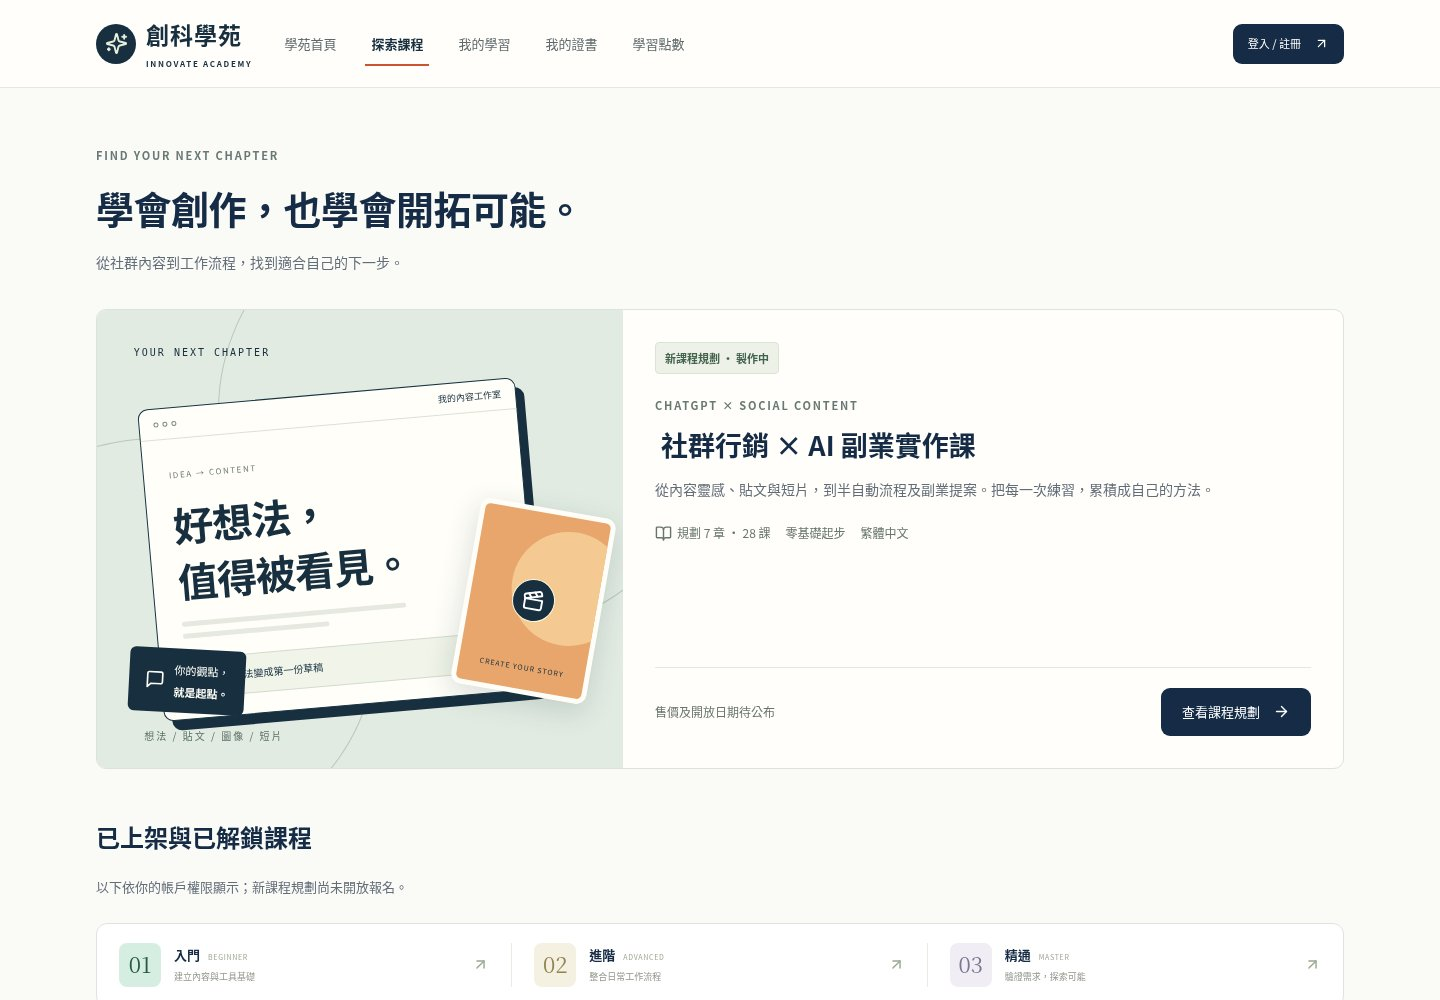
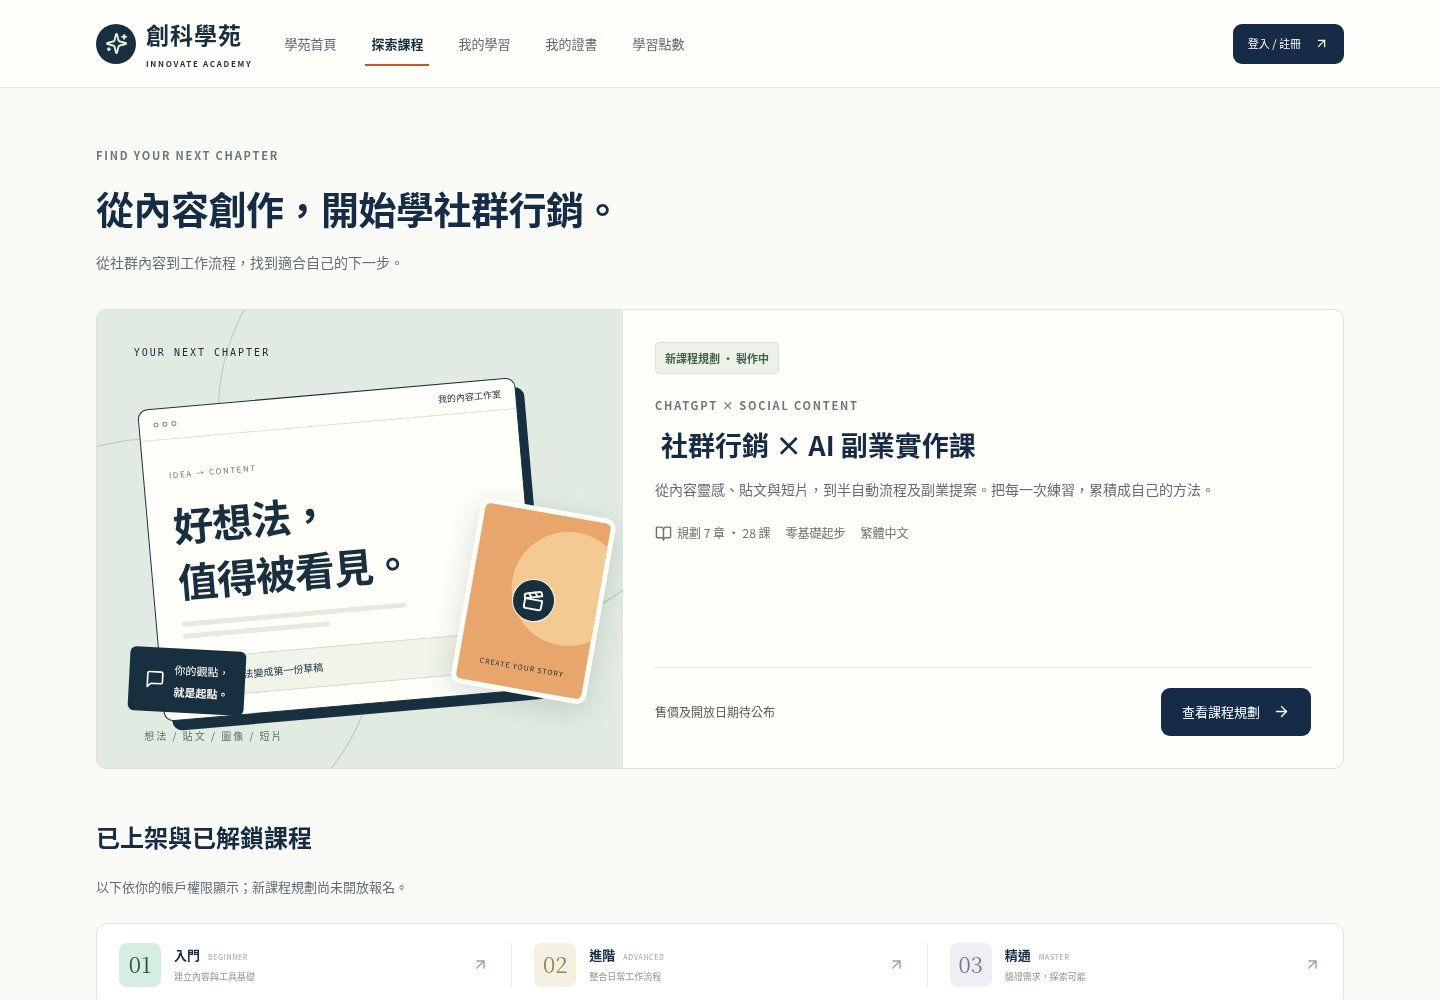
Fix tablet course card clipping and accessible mobile navigation after visual review

Changed region(s): [[0.0625, 0.186, 0.4062, 0.248]]

diff --git a/tests/browser/social-course.spec.ts b/tests/browser/social-course.spec.ts
@@ -36,7 +36,7 @@ test('planned course navigation, chapters and FAQ work without enrollment or pay
   await expect(page.locator('.social-faq details[open]').last()).toContainText('普通話版本尚未提供');
   expect(writes).toEqual([]);
   await page.goBack();
-  await expect(page.getByRole('heading', { level: 1 })).toContainText('下班後的想法');
+  await expect(page.getByRole('heading', { level: 1 })).toContainText('用 AI 做好內容');
 });
 
 test('course sticky navigation and mobile primary action are usable at four viewport sizes', async ({ page }) => {
@@ -68,5 +68,142 @@ test('course sticky navigation and mobile primary action are usable at four view
       .toBeLessThan(250);
     await page.getByText('課程使用甚麼語言？', { exact: true }).click();
     await expect(page.locator('.social-faq details[open]')).toContainText('普通話版本尚未提供');
+  }
+});
+
+test('featured course CTA stays entirely inside its card across tablet breakpoints', async ({ page }) => {
+  for (const width of [767, 768, 820, 1024]) {
+    await page.setViewportSize({ width, height: 1000 });
+    await page.goto('/?page=catalog');
+    const card = page.locator('.featured-social');
+    const cta = card.getByRole('button', { name: '查看課程規劃', exact: true });
+    const bounds = await card.evaluate((element) => {
+      const card = element.getBoundingClientRect();
+      const cta = element.querySelector('.featured-bottom .button')!.getBoundingClientRect();
+      const status = element.querySelector('.featured-bottom > span')!.getBoundingClientRect();
+      return {
+        cardBottom: card.bottom,
+        cardRight: card.right,
+        cardLeft: card.left,
+        ctaBottom: cta.bottom,
+        ctaRight: cta.right,
+        ctaLeft: cta.left,
+        statusBottom: status.bottom,
+      };
+    });
+    expect(bounds.ctaBottom, `CTA bottom at ${width}`).toBeLessThanOrEqual(bounds.cardBottom);
+    expect(bounds.statusBottom, `status bottom at ${width}`).toBeLessThanOrEqual(bounds.cardBottom);
+    expect(bounds.ctaRight).toBeLessThanOrEqual(bounds.cardRight);
+    expect(bounds.ctaLeft).toBeGreaterThanOrEqual(bounds.cardLeft);
+    await cta.click();
+    await expect(page).toHaveURL(/page=social-course/);
+  }
+});
+
+test('mobile drawer settles fully and closes by button, escape and backdrop with restored focus', async ({ page }) => {
+  for (const width of [390, 768]) {
+    await page.setViewportSize({ width, height: 844 });
+    await page.goto('/');
+    const trigger = page.getByRole('button', { name: '開啟選單' }),
+      drawer = page.locator('.sidebar');
+    for (const method of ['button', 'escape', 'backdrop']) {
+      await trigger.click();
+      await expect.poll(() => drawer.evaluate((e) => Math.round(e.getBoundingClientRect().left))).toBe(0);
+      await expect(drawer.getByRole('button', { name: '探索課程', exact: true })).toBeVisible();
+      await expect(page.locator('.main-shell')).toHaveAttribute('inert', '');
+      await expect(drawer).toHaveAttribute('aria-modal', 'true');
+      expect(await page.locator('.menu-backdrop').evaluate((e) => getComputedStyle(e).zIndex)).toBe('50');
+      await expect.poll(() => page.evaluate(() => Boolean(document.activeElement?.closest('.sidebar')))).toBe(true);
+      await page.keyboard.press('Shift+Tab');
+      expect(await page.evaluate(() => Boolean(document.activeElement?.closest('.sidebar')))).toBe(true);
+      if (method === 'button') await drawer.getByRole('button', { name: '關閉選單', exact: true }).click();
+      else if (method === 'escape') await page.keyboard.press('Escape');
+      else await page.locator('.menu-backdrop').click({ position: { x: width - 20, y: 300 } });
+      await expect(drawer).not.toHaveClass(/open/);
+      await expect
+        .poll(() => drawer.evaluate((e) => Math.round(e.getBoundingClientRect().right)))
+        .toBeLessThanOrEqual(0);
+      await expect(trigger).toBeFocused();
+      expect(await page.evaluate(() => document.body.style.overflow)).not.toBe('hidden');
+    }
+    await trigger.click();
+    await page.setViewportSize({ width: 1024, height: 844 });
+    await expect(drawer).not.toHaveClass(/open/);
+    expect(await page.evaluate(() => document.body.style.overflow)).not.toBe('hidden');
+    await expect(page.locator('.main-shell')).not.toHaveAttribute('inert', '');
+    await page.setViewportSize({ width, height: 844 });
+    await trigger.focus();
+    for (let i = 0; i < 16; i++) {
+      await page.keyboard.press('Tab');
+      expect(await page.evaluate(() => Boolean(document.activeElement?.closest('.sidebar')))).toBe(false);
+    }
+  }
+});
+
+test('important status text has readable size and contrast on phones and tablet', async ({ page }) => {
+  for (const width of [320, 390, 768]) {
+    await page.setViewportSize({ width, height: 900 });
+    await page.goto('/?page=social-course');
+    const samples = await page
+      .locator('.chapter h3 small, .chapter li small, .resource-groups li small, .course-mobile-action span')
+      .evaluateAll((elements) =>
+        elements
+          .filter((e) => e.getClientRects().length)
+          .map((e) => {
+            const style = getComputedStyle(e);
+            let node = e,
+              background = '';
+            while (node) {
+              const color = getComputedStyle(node).backgroundColor;
+              if (color !== 'rgba(0, 0, 0, 0)' && color !== 'transparent') {
+                background = color;
+                break;
+              }
+              node = node.parentElement!;
+            }
+            return { size: parseFloat(style.fontSize), foreground: style.color, background };
+          }),
+      );
+    const luminance = (color: string) =>
+      color
+        .match(/[\d.]+/g)!
+        .slice(0, 3)
+        .map(Number)
+        .map((v) => v / 255)
+        .map((v) => (v <= 0.04045 ? v / 12.92 : ((v + 0.055) / 1.055) ** 2.4))
+        .reduce((s, v, i) => s + v * [0.2126, 0.7152, 0.0722][i], 0);
+    for (const sample of samples) {
+      expect(sample.size).toBeGreaterThanOrEqual(12);
+      const a = luminance(sample.foreground),
+        b = luminance(sample.background);
+      expect((Math.max(a, b) + 0.05) / (Math.min(a, b) + 0.05)).toBeGreaterThanOrEqual(4.5);
+    }
+    expect(await page.evaluate(() => document.documentElement.scrollWidth <= innerWidth)).toBe(true);
+  }
+});
+
+test('phone headings keep meaningful phrases together', async ({ page }) => {
+  for (const width of [320, 390]) {
+    await page.setViewportSize({ width, height: 844 });
+    for (const route of ['home', 'catalog']) {
+      await page.goto('/?page=' + route);
+      const lines = await page.locator('h1').evaluate((element) => {
+        const walker = document.createTreeWalker(element, NodeFilter.SHOW_TEXT),
+          rows = new Map<number, string>();
+        let node;
+        while ((node = walker.nextNode()))
+          for (let i = 0; i < node.textContent!.length; i++) {
+            const char = node.textContent![i];
+            if (!char.trim()) continue;
+            const range = document.createRange();
+            range.setStart(node, i);
+            range.setEnd(node, i + 1);
+            const top = Math.round(range.getBoundingClientRect().top);
+            rows.set(top, (rows.get(top) || '') + char);
+          }
+        return [...rows.values()];
+      });
+      for (const line of lines) expect(line.length, `${route} ${width}: ${line}`).toBeGreaterThan(1);
+    }
   }
 });

diff --git a/apps/web/src/App.tsx b/apps/web/src/App.tsx
@@ -69,6 +69,14 @@ export function App() {
     [activeEnrollment, setActiveEnrollment] = useState<string | null>(null),
     [fetching, setFetching] = useState(true);
   const [catalogError, setCatalogError] = useState('');
+  useEffect(() => {
+    const mobile = window.matchMedia('(max-width: 900px)');
+    const closeDesktopMenu = () => {
+      if (!mobile.matches) setMenu(false);
+    };
+    mobile.addEventListener('change', closeDesktopMenu);
+    return () => mobile.removeEventListener('change', closeDesktopMenu);
+  }, []);
   const menuDialog = useDialog(menu, () => setMenu(false));
   const courseDialog = useDialog(!!selected, () => {
     if (!busy) setSelected(null);
@@ -223,7 +231,17 @@ export function App() {
       <a className="skip-link" href="#main-content">
         跳至主要內容
       </a>
-      <aside ref={menuDialog} tabIndex={-1} id="main-navigation" className={`sidebar ${menu ? 'open' : ''}`}>
+      <aside
+        ref={menuDialog}
+        tabIndex={-1}
+        id="main-navigation"
+        inert={!menu}
+        aria-hidden={!menu}
+        role={menu ? 'dialog' : undefined}
+        aria-modal={menu ? true : undefined}
+        aria-label="網站選單"
+        className={`sidebar ${menu ? 'open' : ''}`}
+      >
         <button className="mobile-nav-close icon-button" aria-label="關閉選單" onClick={() => setMenu(false)}>
           <X size={22} />
         </button>
@@ -285,7 +303,7 @@ export function App() {
         </div>
       </aside>
       {menu && <button className="menu-backdrop" aria-label="關閉選單" onClick={() => setMenu(false)} />}
-      <div className="main-shell">
+      <div className="main-shell" inert={menu} aria-hidden={menu ? true : undefined}>
         <header className="topbar">
           <a className="platform-brand" href="/?page=home">
             <span className="brand-mark">
@@ -359,7 +377,10 @@ export function App() {
             <>
               <div className="catalog-intro social-catalog-intro">
                 <div className="social-kicker">FIND YOUR NEXT CHAPTER</div>
-                <h1>學會創作，也學會開拓可能。</h1>
+                <h1>
+                  <span>從內容創作，</span>
+                  <span>開始學社群行銷。</span>
+                </h1>
                 <p>從社群內容到工作流程，找到適合自己的下一步。</p>
               </div>
               <FeaturedSocialCourse onOpen={() => navigate('social-course')} />
@@ -621,7 +642,7 @@ export function App() {
           <span>社群行銷 × AI 副業 · 從實作開始 {config.demo_mode && ' · 試行版本'}</span>
         </footer>
       </div>
-      <nav className="mobile-bottom-nav" aria-label="手機快捷導覽">
+      <nav className="mobile-bottom-nav" aria-label="手機快捷導覽" inert={menu} aria-hidden={menu ? true : undefined}>
         {nav.slice(0, 3).map((n) => (
           <button
             key={n.id}
@@ -729,7 +750,7 @@ export function App() {
         />
       )}
       {toast && (
-        <div className="toast" role="status">
+        <div className="toast" role="status" inert={menu} aria-hidden={menu ? true : undefined}>
           <span>{toast}</span>
           <button aria-label="關閉通知" onClick={() => setToast('')}>
             <X size={16} />

diff --git a/apps/web/src/social-academy.css b/apps/web/src/social-academy.css
@@ -400,14 +400,16 @@
   background: #fffefa;
 }
 .featured-art {
-  display: block;
+  display: grid;
+  align-items: center;
+  background: #e1ebe2;
   width: 100%;
   padding: 0;
   text-align: left;
 }
 .featured-art .content-studio {
   border-radius: 0;
-  height: 100%;
+  height: auto;
   aspect-ratio: 1.15;
 }
 .featured-art:focus-visible {
@@ -1621,4 +1623,57 @@
   .course-intro-grid .course-key-visual .content-window-body > strong {
     font-size: 20px;
   }
+}
+
+@media (max-width: 900px) {
+  .featured-social {
+    grid-template-columns: minmax(0, 1fr);
+  }
+  .featured-art .content-studio {
+    height: auto;
+    aspect-ratio: 1.5;
+  }
+}
+.social-hero h1 > span,
+.social-hero h1 > em {
+  display: block;
+}
+.social-catalog-intro h1 > span {
+  display: inline-block;
+}
+@media (max-width: 600px) {
+  .social-hero h1 {
+    font-size: clamp(32px, 9.7vw, 40px);
+  }
+  .social-catalog-intro h1 {
+    font-size: clamp(27px, 8vw, 30px);
+  }
+  .social-catalog-intro h1 > span {
+    display: block;
+  }
+}
+
+/* Important production status remains legible at every breakpoint. */
+.chapter h3 small,
+.chapter li small,
+.resource-groups li small,
+.course-mobile-action span,
+.enrollment-price span,
+.course-enrollment-card .enrollment-footnote,
+.featured-bottom > span {
+  font-size: 12px;
+  color: #53634f;
+}
+@media (max-width: 900px) {
+  .platform-shell .sidebar.open + .menu-backdrop {
+    display: block;
+    position: fixed;
+    inset: 0;
+    z-index: 50;
+    background: #10223a66;
+  }
+}
+
+.featured-copy h2 {
+  text-wrap: balance;
 }

diff --git a/apps/web/src/SocialAcademy.tsx b/apps/web/src/SocialAcademy.tsx
@@ -77,15 +77,14 @@ export function SocialHome({ onCourse, onCatalog }: { onCourse: () => void; onCa
             <span /> AI FOR YOUR NEXT CHAPTER
           </span>
           <h1>
-            下班後的想法，
-            <br />
-            成為你的
-            <br />
-            <em>下一種可能。</em>
+            <span>用 AI 做好內容，</span>
+            <span>開始你的</span>
+            <em>社群副業。</em>
           </h1>
           <p>
-            從一篇貼文、一張圖、一支短片開始。
-            <br />用 ChatGPT 學社群行銷，逐步探索自己的副業方向。
+            用 ChatGPT 整理帖文、製作配圖與短片，
+            <br />
+            建立可重用的流程，逐步試出自己的副業方向。
           </p>
           <div className="social-actions">
             <button className="button" onClick={onCourse}>
@@ -273,7 +272,6 @@ export function SocialCoursePage({ onCatalog }: { onCatalog: () => void }) {
       <div className="course-intro-grid">
         <div className="course-key-visual">
           <ContentStudio />
-          <span className="visual-status">課程主視覺 · 非影片預覽</span>
         </div>
         <div className="course-heading">
           <span className="social-kicker">CHATGPT × CONTENT × SIDE PROJECTS</span>

diff --git a/tests/browser/academy.spec.ts b/tests/browser/academy.spec.ts
@@ -6,7 +6,7 @@ test('home, first workshop and browser back remain usable without an account', a
   const errors: string[] = [];
   page.on('pageerror', (error) => errors.push(error.message));
   await page.goto('/');
-  await expect(page.getByRole('heading', { level: 1 })).toContainText('下班後的想法');
+  await expect(page.getByRole('heading', { level: 1 })).toContainText('用 AI 做好內容');
   await page.getByRole('button', { name: '查看所有課程', exact: true }).click();
   await page.getByRole('button', { name: '公開練習：分享卡小工具' }).click();
   await expect(page).toHaveURL(/page=first-lesson/);
@@ -22,7 +22,7 @@ test('home, first workshop and browser back remain usable without an account', a
   await page.goBack();
   await expect(page).toHaveURL(/page=catalog/);
   await page.goBack();
-  await expect(page.getByRole('heading', { level: 1 })).toContainText('下班後的想法');
+  await expect(page.getByRole('heading', { level: 1 })).toContainText('用 AI 做好內容');
   expect(errors).toEqual([]);
 });
 

diff --git a/docs/social-academy-redesign.md b/docs/social-academy-redesign.md
@@ -36,7 +36,7 @@
 - Production build：通過。
 - Unit：7／7 通過。
 - Integration：18／18 通過；涵蓋免費名額競爭、重複扣點、版本固定、CSRF／MFA、refresh 重放、Stripe 簽章與退款、私有影片／字幕授權。
-- Chromium E2E：17／17 通過，無跳過。涵蓋 320／390／768／1024／1440px、公開練習 PNG、登入／導覽、LMS 閱讀／測驗／證書、測試付款、字幕選軌、播放器重掛載、過期／遲到媒體回應，以及新課程課綱、FAQ、黏頂導覽與非交易 CTA。
+- Chromium E2E：21／21 通過，無跳過。涵蓋 320／390／768／1024／1440px、公開練習 PNG、登入／導覽、LMS 閱讀／測驗／證書、測試付款、字幕選軌、播放器重掛載、過期／遲到媒體回應，以及新課程課綱、FAQ、黏頂導覽與非交易 CTA。
 - 沒有 lint script；使用 Prettier 與 `git diff --check`。新增測試只覆蓋實際互動與重要商業狀態，沒有重建既有後端測試。
 - 首次新 FAQ 捲動測試把頁尾位置硬限定在 100px，實際因文件剩餘高度為 148px；改為驗證內容進入可見區域，非掩蓋溢出。其餘既有回歸全部保留。
 
@@ -60,3 +60,12 @@
 3. 新媒體應依原有 LMS 私有資產／版本化字幕流程接入新課程草稿或隔離驗收版本，不能覆寫既有報讀版本；舊固定檔名的私人首課 preview route 保持未啟用。
 4. 普通話僅規劃，沒有假可播放語言。Gemini 如加入，只作有真實示範的對照，不提供繞區教學。
 5. 未部署、未合併、未啟用真付款；沒有改正式 DB、刪資料或擴大權限。Draft PR 保留供父端驗收。
+
+## 獨立視覺審查修正
+
+- 平板主題卡曾真實裁切：767px 時卡片底部 678.58px，CTA 底部 745.45px。新增測試先重現失敗；移除插畫 `height:100%` 的高度耦合，900px 以下改為單欄，767／768／820／1024px 均驗證價格狀態與 CTA 完整落在卡片內，並可點入課程。
+- 390／768px 抽屜皆有覆蓋全畫面的 backdrop；關閉時 inert／aria-hidden，開啟時 modal 語意並隔離背景。按鈕、Escape、backdrop 關閉後還原焦點；跨 900px 斷點會關閉抽屜並解除 body lock。Tab 不會進入關閉的抽屜。
+- 拍攝等待抽屜實際 transform／邊界到位，不採固定延遲。加入 API 可用性及異常通知檢查；本輪曾因本機 API 中斷而中止／重跑，失敗狀態不作最終證據。
+- 首頁改為「用 AI 做好內容，開始你的社群副業」，課程列表改為「從內容創作，開始學社群行銷」。320／390px 標題沒有單字孤行。移除封面「課程主視覺・非影片預覽」角標。
+- 章節副標、規劃中及價格日期狀態至少 12px、文字色 #53634f；320／390／768px 以 computed style 驗證對比至少 4.5:1。這是 Chromium 自動化與像素複核，不代表已驗證所有真機／螢幕閱讀器。
+- 四項新增 E2E 加上原有 17 項，共 21 項。原有 19 張截圖與 manifest 已重新拍攝，另加 `featured-card-768.jpg`，完整顯示平板卡片及 CTA。
